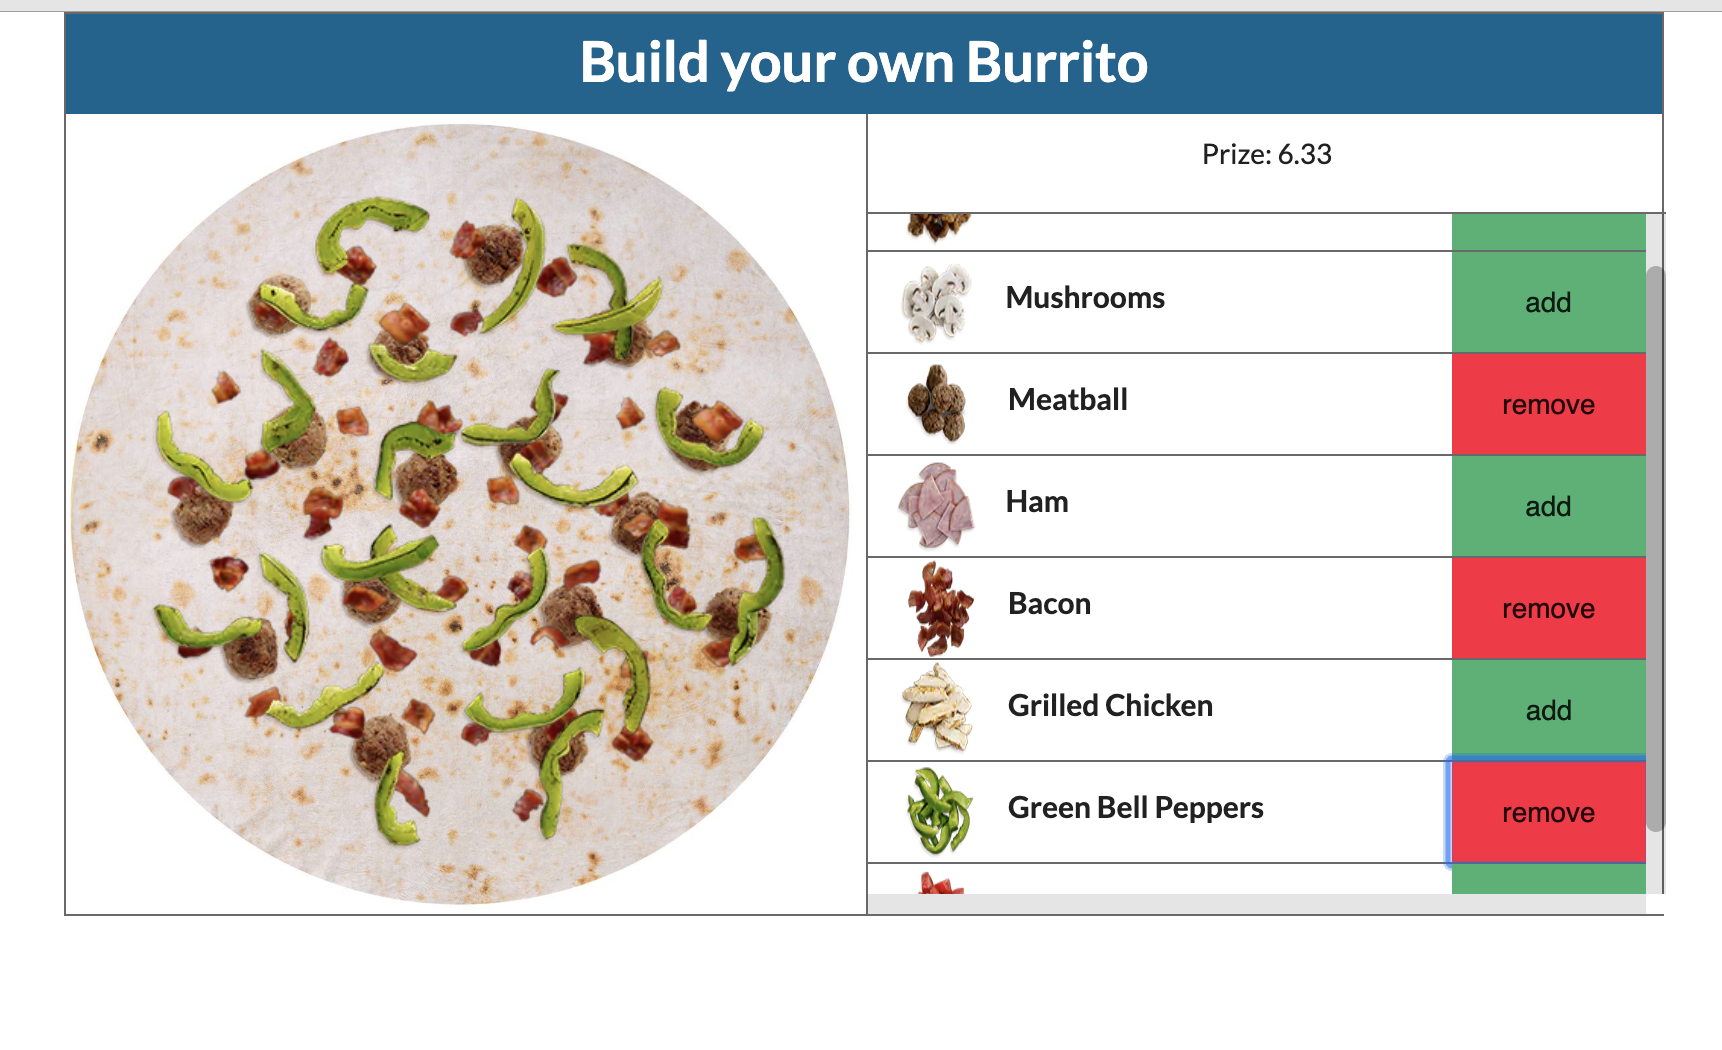
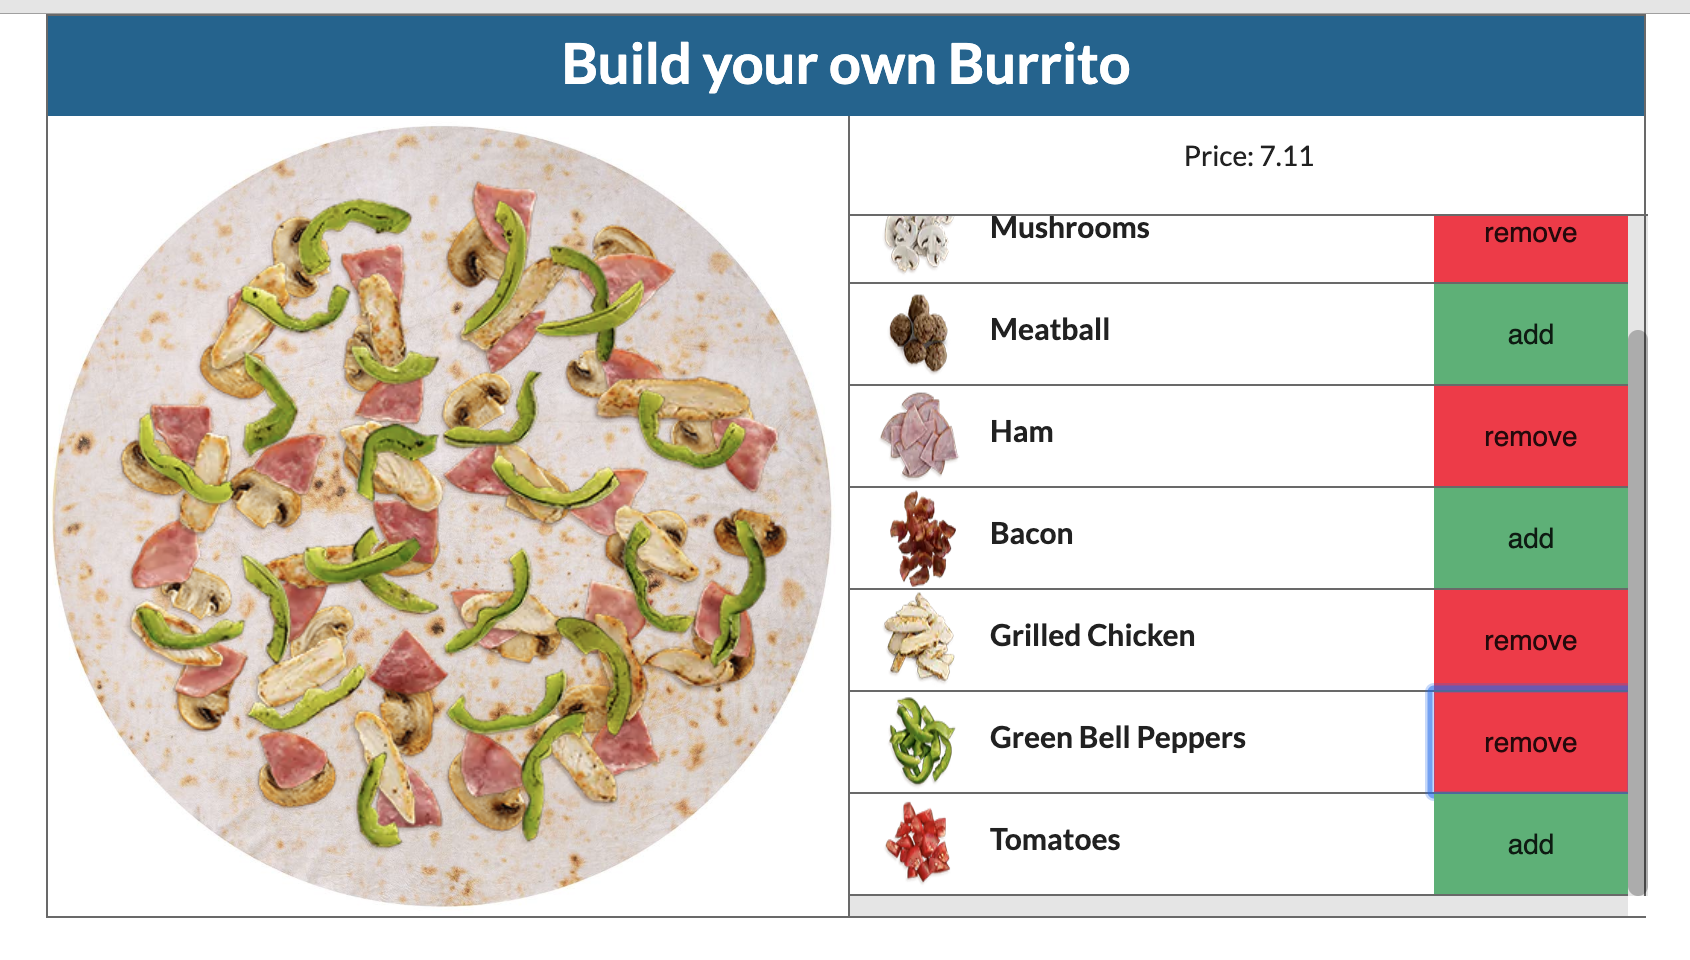
polish

diff --git a/src/components/ListTitle.js b/src/components/ListTitle.js
@@ -12,7 +12,7 @@ const ListTitle = props => {
 
   return (
     <div className="topping-list-title">
-      Prize: {Math.round(totalMoney*100)/100}
+      Price: {Math.round(totalMoney*100)/100}
     </div>
   );
 };
